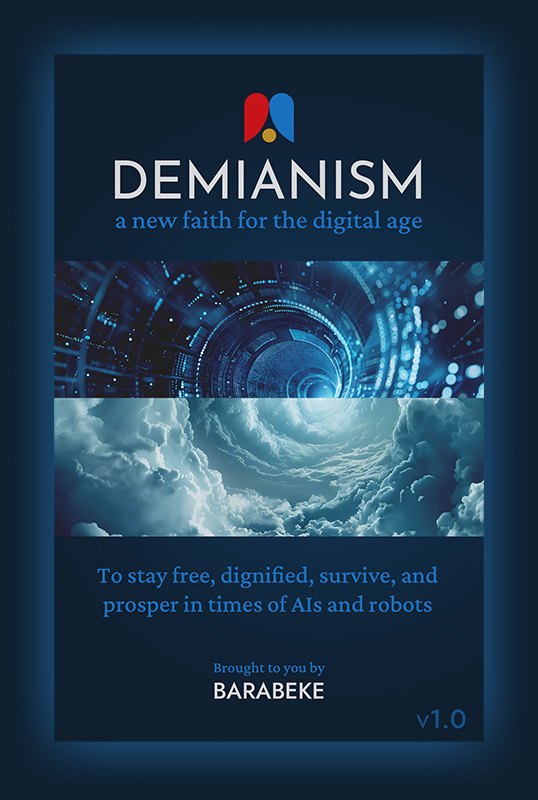
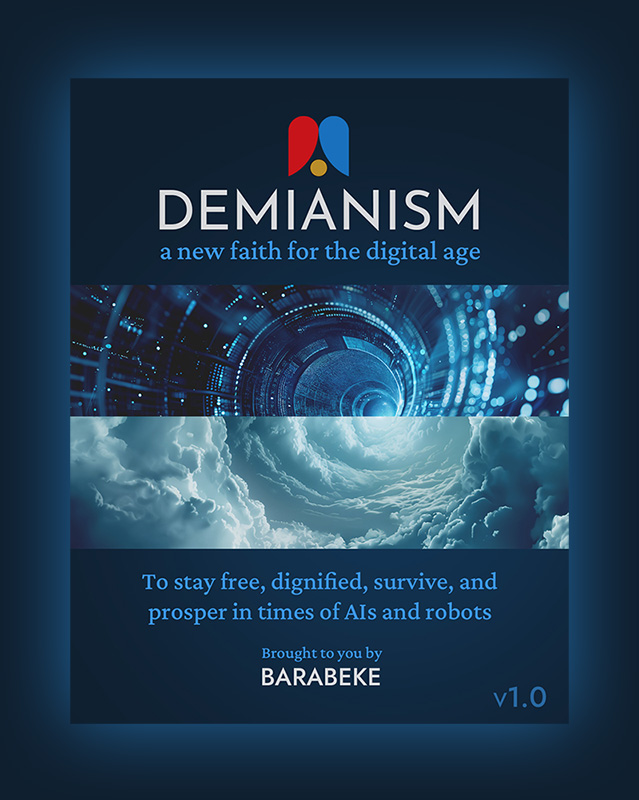
Add files via upload

Changed region(s): [[0.0892, 0.0625, 0.9219, 0.9375], [0.3866, 0.8125, 0.6245, 0.875]]

diff --git a/index.html b/index.html
@@ -4,6 +4,7 @@
   <meta charset="UTF-8">
   <meta name="viewport" content="width=device-width, initial-scale=1.0">
   <title>Demianism: Coming Soon</title>
+  <link rel="icon" href="favicon.png" type="image/png">
   <link href="https://fonts.googleapis.com/css2?family=Jost:wght@500&display=swap" rel="stylesheet">
   <style>
     body {
@@ -40,7 +41,7 @@
 
     .cover {
       width: 100%;
-      max-width: 538px;
+      max-width: 639px;
       height: auto;
       display: block;
       margin: 20px auto;
@@ -93,15 +94,15 @@
   <img src="demianismcover.jpg" alt="Demianism 1.0 Cover" class="cover">
 
   <p>Available languages and formats:</p>
-  <p>English: <a href="https://placeholder.com/english-epub">download eBook</a> | <a href="https://placeholder.com/english-pdf">download PDF</a></p>
-  <p>Italiano: <a href="https://placeholder.com/italiano-epub">scarica eBook</a> | <a href="https://placeholder.com/italiano-pdf">scarica PDF</a></p>
+  <p>English: <a href="https://bit.ly/4lmx9D5">download eBook</a> | <a href="https://bit.ly/4k5lHKX">download PDF</a></p>
+  <p>Italiano: <a href="https://bit.ly/4el9PDj">scarica eBook</a> | <a href="https://bit.ly/4l9VwEc">scarica PDF</a></p>
 
   <p>&nbsp;</p>
   <p>Nothing will be possible without your help.</p>
-  <p>Please support the work of Barabeke with a free donation.</p>
+  <p>Please support the work of Barabeke with a donation.</p>
 
-  <a href="https://donate.demianism.org" class="button-card">Donate with card</a>
-  <a href="https://placeholder.com/crypto" class="button-crypto">Donate with crypto</a>
+  <a href="https://donate.stripe.com/5kQfZgdea31TcFDe8XdnW00" class="button-card">Donate with card</a>
+  <a href="https://donate.demianism.org" class="button-crypto">Donate with crypto</a>
 
   <p>Blessed be the people of goodwill that will give Demianism a chance <span class="emoji">🙏</span></p>
 </body>
